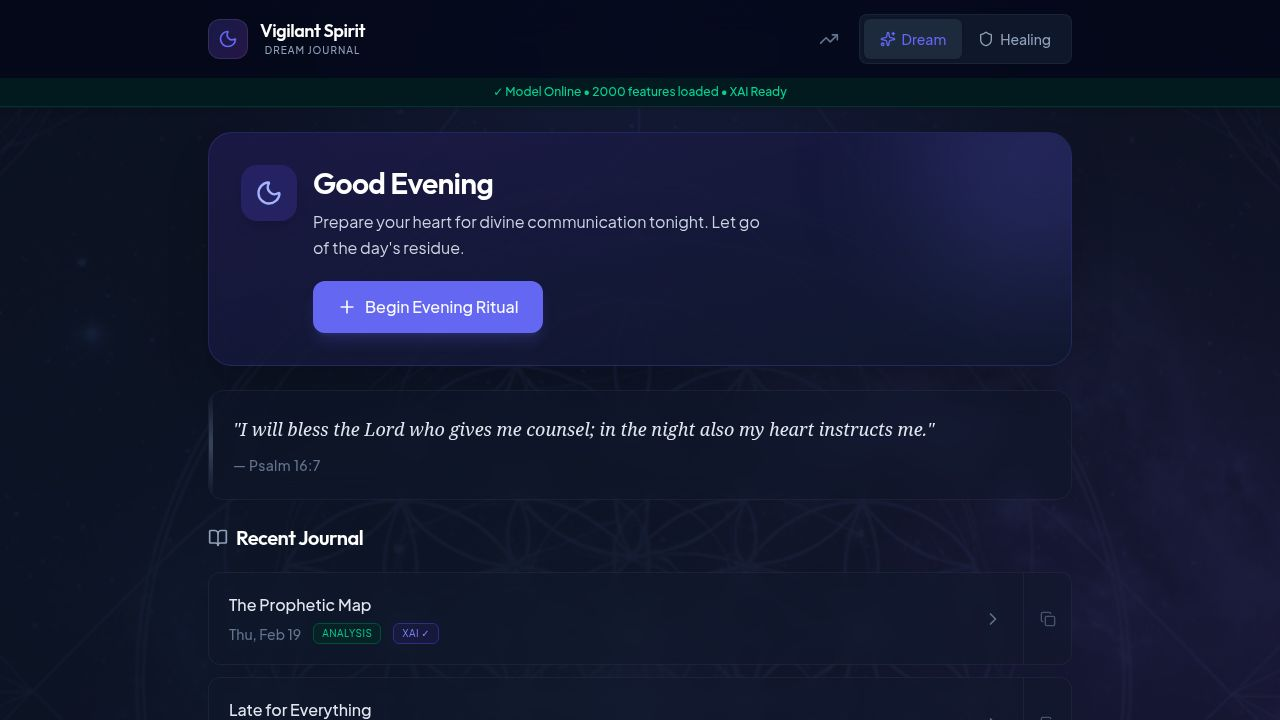
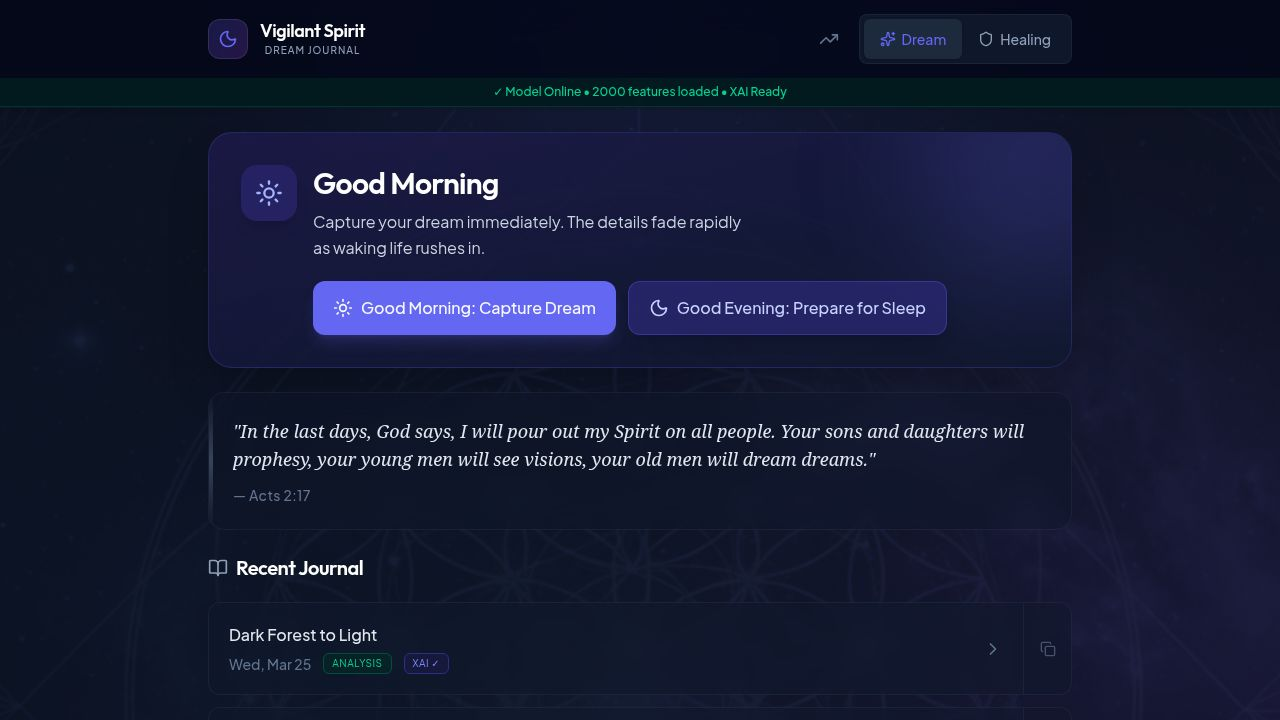
Add dual morning/evening entry buttons on dashboard (Task #5)
Changes in artifacts/vigilant-spirit/src/pages/Home.tsx only:

1. Updated startNewEntry(isMorning: boolean) signature:
   - isMorning=true: Vigilant→'capture', Restored→'witness'
   - isMorning=false: Vigilant→'presleep', Restored→'evening'
   - Removes auto time-of-day detection for phase selection

2. Welcome Card: replaced single dynamic button with two side-by-side buttons:
   - "Good Morning: Capture Dream" (Sun icon, primary filled style)
   - "Good Evening: Prepare for Sleep" (Moon icon, ghost/outlined style)
   - flex-col sm:flex-row layout — stacks on mobile, inline on desktop

3. Empty State: replaced "Start First Entry" with the same two-button layout:
   - Same Sun/Moon icon + label pattern
   - Consistent ghost styling appropriate for the empty state context
   - justify-center for proper centering

No other files changed. Dev server and screenshot confirm the UI renders
correctly with both buttons visible and functional.

diff --git a/artifacts/vigilant-spirit/src/pages/Home.tsx b/artifacts/vigilant-spirit/src/pages/Home.tsx
@@ -1565,12 +1565,18 @@ export default function Journal() {
   const isEvening = timeOfDay >= 18 || timeOfDay < 6;
   const scripture = getDailyScripture(SCRIPTURES[mode === 'vigilant' ? 'dreams' : 'protection']);
 
-  const startNewEntry = () => {
+  const startNewEntry = (isMorning: boolean) => {
+    let phase: JournalEntry['phase'];
+    if (mode === 'vigilant') {
+      phase = isMorning ? 'capture' : 'presleep';
+    } else {
+      phase = isMorning ? 'witness' : 'evening';
+    }
     const newEntry: JournalEntry = {
       id: Date.now(),
       date: new Date().toISOString(),
       mode,
-      phase: mode === 'vigilant' ? 'presleep' : 'evening',
+      phase,
       data: {}
     };
     setCurrentEntry(newEntry);
@@ -1704,17 +1710,30 @@ export default function Journal() {
                             : "If you had a nightmare, process it safely using Image Rehearsal Therapy."
                         }
                       </p>
-                      <button
-                        onClick={startNewEntry}
-                        className={`px-6 py-3.5 rounded-xl font-medium flex items-center gap-2 shadow-lg transition-all active:scale-95 min-h-[52px] ${
-                          mode === 'vigilant' 
-                            ? 'bg-primary text-primary-foreground shadow-primary/20 hover:bg-primary/90' 
-                            : 'bg-secondary text-secondary-foreground shadow-secondary/20 hover:bg-secondary/90'
-                        }`}
-                      >
-                        <Plus className="w-5 h-5" />
-                        {isEvening ? 'Begin Evening Ritual' : 'Capture Dream'}
-                      </button>
+                      <div className="flex flex-col sm:flex-row gap-3">
+                        <button
+                          onClick={() => startNewEntry(true)}
+                          className={`px-5 py-3.5 rounded-xl font-medium flex items-center gap-2 shadow-lg transition-all active:scale-95 min-h-[52px] ${
+                            mode === 'vigilant' 
+                              ? 'bg-primary text-primary-foreground shadow-primary/20 hover:bg-primary/90' 
+                              : 'bg-secondary text-secondary-foreground shadow-secondary/20 hover:bg-secondary/90'
+                          }`}
+                        >
+                          <Sun className="w-5 h-5" />
+                          Good Morning: Capture Dream
+                        </button>
+                        <button
+                          onClick={() => startNewEntry(false)}
+                          className={`px-5 py-3.5 rounded-xl font-medium flex items-center gap-2 shadow-lg transition-all active:scale-95 min-h-[52px] ${
+                            mode === 'vigilant'
+                              ? 'bg-indigo-900/60 text-indigo-200 border border-indigo-500/30 hover:bg-indigo-800/60'
+                              : 'bg-purple-900/60 text-purple-200 border border-purple-500/30 hover:bg-purple-800/60'
+                          }`}
+                        >
+                          <Moon className="w-5 h-5" />
+                          Good Evening: Prepare for Sleep
+                        </button>
+                      </div>
                     </div>
                   </div>
                 </div>
@@ -1813,17 +1832,30 @@ export default function Journal() {
                         ? 'Each morning is an opportunity to receive what God speaks in the night. Begin your first entry.'
                         : 'The Restored Night helps you process nightmares safely and find peace. Start tonight.'}
                     </p>
-                    <button
-                      onClick={startNewEntry}
-                      className={`mt-6 px-6 py-3 rounded-xl font-medium flex items-center gap-2 mx-auto transition-all active:scale-95 min-h-[48px] ${
-                        mode === 'vigilant'
-                          ? 'bg-primary/20 hover:bg-primary/30 text-primary border border-primary/30'
-                          : 'bg-secondary/20 hover:bg-secondary/30 text-secondary border border-secondary/30'
-                      }`}
-                    >
-                      <Plus className="w-4 h-4" />
-                      Start First Entry
-                    </button>
+                    <div className="mt-6 flex flex-col sm:flex-row gap-3 justify-center">
+                      <button
+                        onClick={() => startNewEntry(true)}
+                        className={`px-5 py-3 rounded-xl font-medium flex items-center gap-2 transition-all active:scale-95 min-h-[48px] ${
+                          mode === 'vigilant'
+                            ? 'bg-primary/20 hover:bg-primary/30 text-primary border border-primary/30'
+                            : 'bg-secondary/20 hover:bg-secondary/30 text-secondary border border-secondary/30'
+                        }`}
+                      >
+                        <Sun className="w-4 h-4" />
+                        Good Morning: Capture Dream
+                      </button>
+                      <button
+                        onClick={() => startNewEntry(false)}
+                        className={`px-5 py-3 rounded-xl font-medium flex items-center gap-2 transition-all active:scale-95 min-h-[48px] ${
+                          mode === 'vigilant'
+                            ? 'bg-slate-800/60 hover:bg-slate-700/60 text-slate-300 border border-slate-600/30'
+                            : 'bg-slate-800/60 hover:bg-slate-700/60 text-slate-300 border border-slate-600/30'
+                        }`}
+                      >
+                        <Moon className="w-4 h-4" />
+                        Good Evening: Prepare for Sleep
+                      </button>
+                    </div>
                   </div>
                 )}
               </div>
